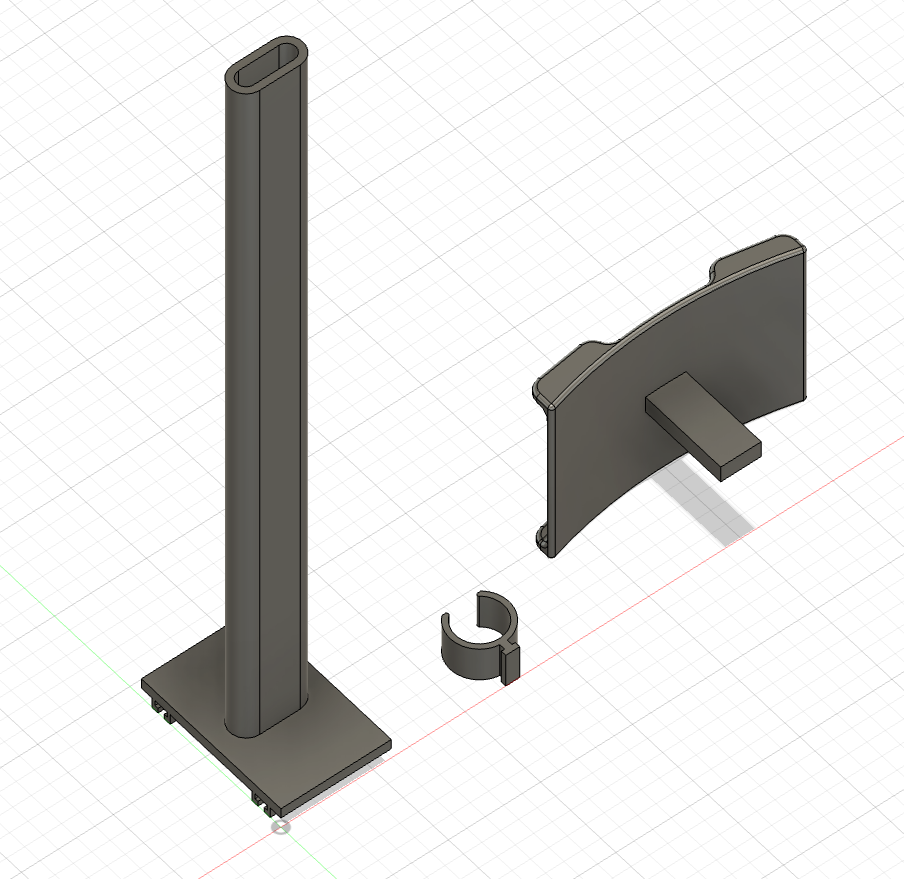
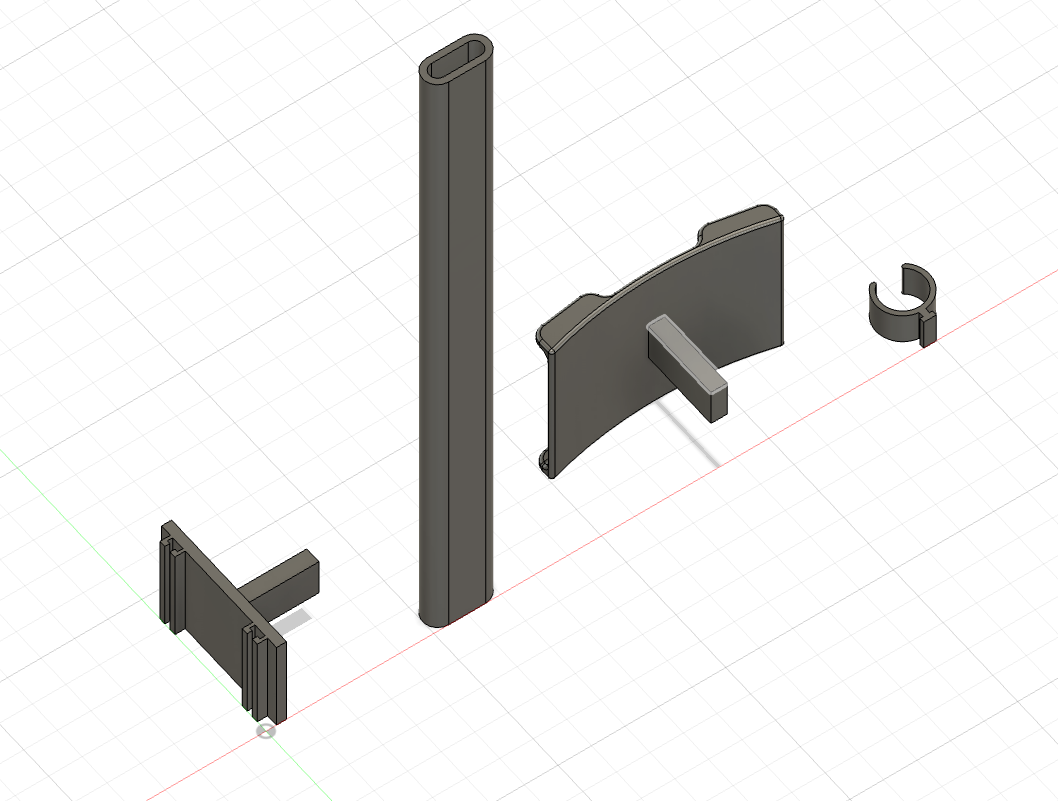
Headphones stand (#5)
* Headphones stand refactored and fixed

* Print preset plate names are unified

Changed region(s): [[0.1239, 0.0312, 0.5885, 0.9675], [0.4956, 0.2497, 0.8982, 0.6554], [0.2168, 0.9988, 0.2478, 1.0]]

diff --git a/README.md b/README.md
@@ -134,7 +134,7 @@ mounting solution for your headphones
 <img src="headphones-stand/3d.PNG" alt="Headphones stand" width="400">
 </details>
 
-- **Filament required:** ~45g
+- **Filament required:** ~46g
 - **[Headphones stand base project files](headphones-stand)**
 
 ---

diff --git a/headphones-stand/README.md b/headphones-stand/README.md
@@ -3,6 +3,6 @@
 A tube-mounted headphone stand. Designed to integrate with the shelf’s tube system, providing a stable and space-saving
 mounting solution for your headphones
 
-**Filament required:** ~45g
+**Filament required:** ~46g
 
 <img src="./3d.PNG" alt="Headphones stand base" width="400">